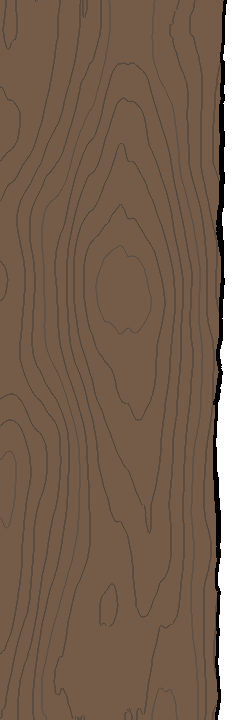
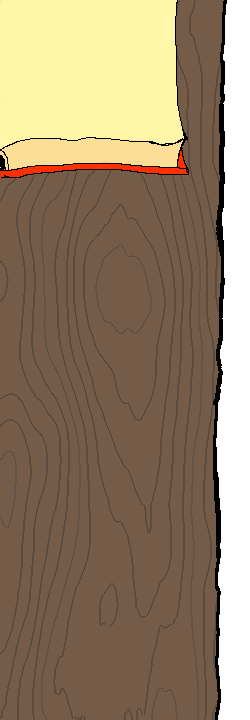
Дорисована панель уровня. Изменены шрифты

Changed region(s): [[0.0, 0.0, 0.756, 0.2444]]

diff --git a/Game/BadMagic/src/badmagic/view/GamePanel.java b/Game/BadMagic/src/badmagic/view/GamePanel.java
@@ -11,8 +11,10 @@ import java.awt.BasicStroke;
 import java.awt.Color;
 import java.awt.Dimension;
 import java.awt.Font;
+import java.awt.FontFormatException;
 import java.awt.Graphics;
 import java.awt.Graphics2D;
+import java.awt.GraphicsEnvironment;
 import java.awt.Image;
 import java.awt.Point;
 import java.awt.Rectangle;
@@ -40,7 +42,7 @@ public class GamePanel extends JPanel {
 
         _model = model;
         _model.addModelListener(new ModelObserver());
-        loadPic();
+        loadResources();
     }
 
     public void startNewCareer() {
@@ -98,14 +100,13 @@ public class GamePanel extends JPanel {
         //g.setColor(OBJECTS_BORDER_COLOR);
         g.drawImage(_infoPanel, -1, -1, null);
 
-        Font font = new Font(FONT_TYPE, Font.BOLD, FONT_SIZE);
-        g.setFont(font);
-        g.setColor(FONT_COLOR);
-        g.drawString("Уровень" , 70, 30);
-        g.drawString(_model.getLevelName(), 30, 55);
-        g.drawString("Осталось ходов: " + _model.getMoves(), 25, 100);
+        g.setFont(_levelFont);
+        g.drawString("\""+_model.getLevelName()+"\"" , 15, 45);
+        g.drawString("Осталось ходов: " + _model.getMoves(), 5, 85);
 
+        
         g2d.draw(_quitGameBtn);
+        g.setColor(FONT_COLOR);
         g.drawString("Выход", 70, 670);
     }
 
@@ -233,14 +234,17 @@ public class GamePanel extends JPanel {
         }
     }
 
-    private void loadPic() {
+    private void loadResources() {
 
         try {
 
             _cellPic = ImageIO.read(getClass().getResource(PIC));
             _infoPanel = ImageIO.read(getClass().getResource(INFO_PANEL));
-
+             _levelFont = Font.createFont(Font.TRUETYPE_FONT, this.getClass().getResource(LEVEL_FONT_PATH).openStream()).deriveFont(FONT_SIZE);
         } catch ( IOException ex ) {
+
+            ex.printStackTrace();
+        } catch ( FontFormatException ex ) {
 
             ex.printStackTrace();
         }
@@ -447,6 +451,7 @@ public class GamePanel extends JPanel {
 
     private BufferedImage _cellPic;
     private BufferedImage _infoPanel;
+    private static Font _levelFont;
     private GameModel _model;
     private int _fieldStartX;
     private int _fieldStartY;
@@ -459,12 +464,14 @@ public class GamePanel extends JPanel {
 
     private static final int CELL_SIZE = 64;
     private static final String PIC = "/badmagic/resources/brick.png";
-    private static final String INFO_PANEL = "/badmagic//resources/panel.png";
+    private static final String INFO_PANEL = "/badmagic/resources/panel.png";
+    private static final String LEVEL_FONT_PATH = "/badmagic/resources/level.ttf";
+    
 
     private static final Color BACKGROUND_COLOR = new Color(47, 79, 79);
     private static final Color OBJECTS_BORDER_COLOR = new Color(205, 133, 63);
 
-    private static final int FONT_SIZE = 15;
+    private static final float FONT_SIZE = 24;
     private static final String FONT_TYPE = "Comic Sans MS";
     private static final Color FONT_COLOR = new Color(205, 133, 63);
 
